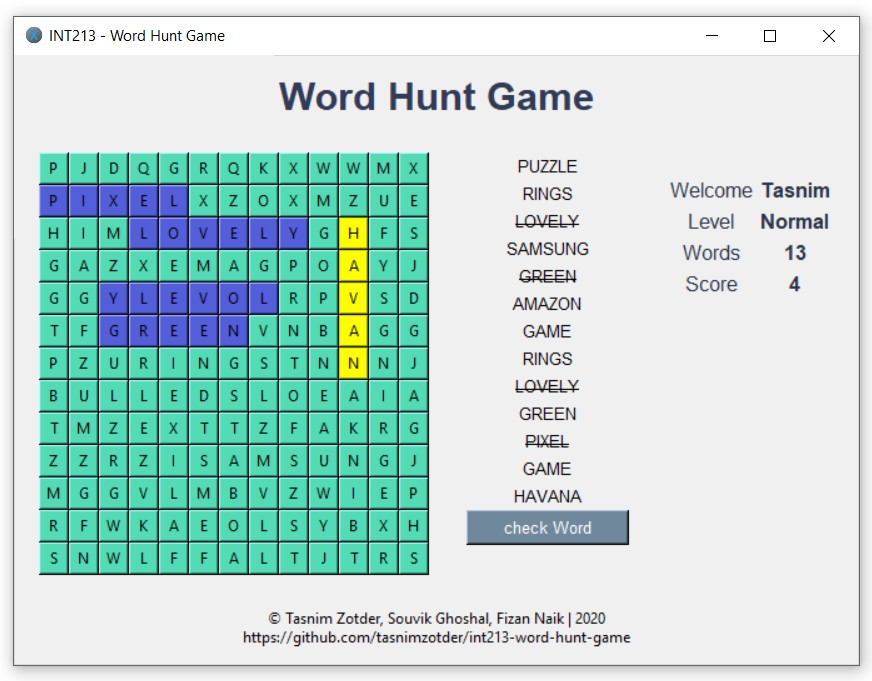
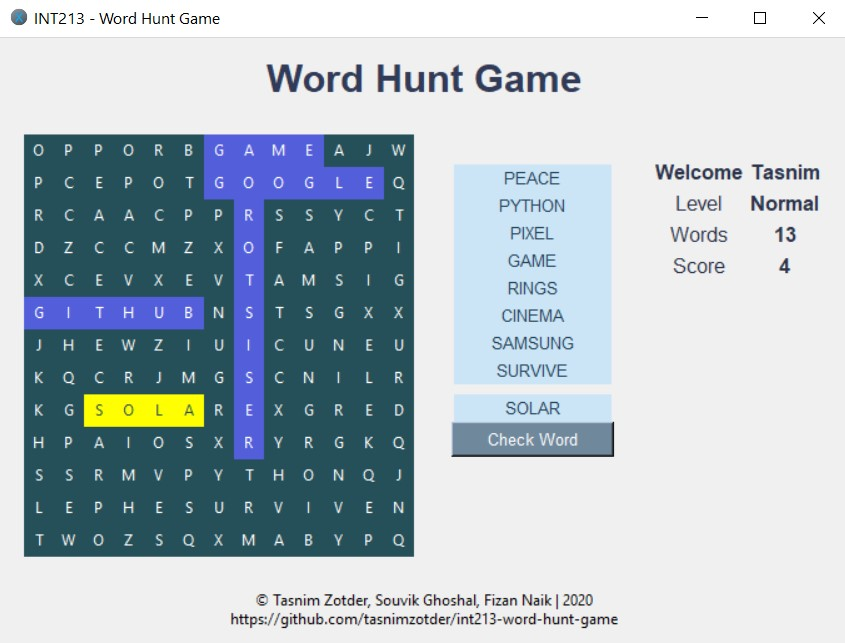
:pencil: add References & improve UI

diff --git a/int213-word-hunt-game/main.py b/int213-word-hunt-game/main.py
@@ -2,8 +2,20 @@
 INT213 - Word Hunt Game
 Let's hunt the lost words 🔍
 
+Author: Tasnim Zotder <hello@tasnim.dev>
 Repository: https://github.com/tasnimzotder/int213-word-hunt-game/
 Readme: https://github.com/tasnimzotder/int213-word-hunt-game/blob/master/README.md
+License: MIT
+"""
+
+# Reference(s)
+"""
+The word search logic is referenced to - 
+
+Repository: https://github.com/SpartanApple/PythonWordSearch
+Author: Mitchell Gale (SpartanApple)
+Year: 2020
+Month: October
 """
 
 import string
@@ -18,8 +30,8 @@ root = tk.Tk()
 root.title("INT213 - Word Hunt Game")
 root.iconbitmap(os.path.join(os.getcwd(), 'icons', 'x-48.ico'))
 
-pressedWord = ''
-prev = [0, 0]
+wordPressed = ''
+previous = [0, 0]
 route = [0, 0]
 
 # ***************> Game Starts <******************
@@ -80,7 +92,8 @@ def startGame():
     labelWelcome = tk.Label(master=frame3,
                             text="Welcome",
                             fg='#2c334a',
-                            font=('Helvetica', 12)).grid(row=0, column=0)
+                            font=('Helvetica', 12, 'bold')).grid(row=0,
+                                                                 column=0)
 
     labelWName = tk.Label(master=frame3,
                           text=configFile['player']['name'],
@@ -132,10 +145,10 @@ def startGame():
     directionArr = [[1, 0], [1, 1], [0, 1], [-1, 1], [-1, 0], [-1, -1],
                     [0, -1], [1, -1]]
 
-    class square:
+    class Square:
         status = False
-        char = ''
         filled = False
+        char = ''
 
     def fill(x, y, word, direction):
         for i in range(len(word)):
@@ -170,70 +183,78 @@ def startGame():
                             height=1,
                             width=15,
                             font=('None %d ' % (10)),
+                            fg='#254359',
+                            bg='#cbe5f7',
                             anchor='c')
         check[j].grid()
 
         fill(x, y, word, direction)
         return dictionary
 
-    def colourWord(pressedWord, valid):
+    def colourWord(wordPressed, valid):
         route[0] *= -1
         route[1] *= -1
-        for i in range(len(pressedWord)):
-            if valid == True or arr[prev[0] +
-                                    i * route[0]][prev[1] +
+        for i in range(len(wordPressed)):
+            if valid == True or arr[previous[0] +
+                                    i * route[0]][previous[1] +
                                                   i * route[1]].status == True:
-                button[prev[0] + i * route[0]][prev[1] + i * route[1]].config(
-                    bg='#535edb')
-                arr[prev[0] + i * route[0]][prev[1] +
-                                            i * route[1]].status = True
-            elif (arr[prev[0] + i * route[0]][prev[1] +
-                                              i * route[1]].status == False):
-                button[prev[0] + i * route[0]][prev[1] + i * route[1]].config(
-                    bg='#53dbb5')
+                button[previous[0] + i * route[0]][previous[1] +
+                                                   i * route[1]].config(
+                                                       bg='#535edb',
+                                                       fg='white')
+                arr[previous[0] + i * route[0]][previous[1] +
+                                                i * route[1]].status = True
+            elif (arr[previous[0] +
+                      i * route[0]][previous[1] +
+                                    i * route[1]].status == False):
+                button[previous[0] + i * route[0]][previous[1] +
+                                                   i * route[1]].config(
+                                                       bg='#255059',
+                                                       fg='white')
 
     def checkWord():
-        global pressedWord
+        global wordPressed
 
-        if pressedWord in dictionary:
-            check[int(dictionary.index(pressedWord))].configure(
-                font=('None %d overstrike' % (10)))
-            check[int(dictionary.index(pressedWord))].grid()
-            dictionary[dictionary.index(pressedWord)] = ''
+        if wordPressed in dictionary:
+            check[int(dictionary.index(wordPressed))].configure(
+                font=('Helvetica', 1), fg='#f0f0f0', bg='#f0f0f0')
+            check[int(dictionary.index(wordPressed))].grid()
+            dictionary[dictionary.index(wordPressed)] = ''
+
             updateScore()
-            colourWord(pressedWord, True)
+            colourWord(wordPressed, True)
         else:
-            colourWord(pressedWord, False)
-        pressedWord = ''
-        prev = [0, 0]
+            colourWord(wordPressed, False)
+        wordPressed = ''
+        previous = [0, 0]
 
     def buttonPress(x, y):
-        global pressedWord, prev, route
+        global wordPressed, previous, route
         newPressed = [x, y]
 
-        if (len(pressedWord) == 0):
-            prev = newPressed
-            # print(prev)
-            pressedWord = arr[x][y].char
-            button[x][y].configure(bg='yellow')
+        if (len(wordPressed) == 0):
+            previous = newPressed
+            # print(previous)
+            wordPressed = arr[x][y].char
+            button[x][y].configure(bg='yellow', fg='#255059')
 
-        elif (len(pressedWord) == 1 and (x - prev[0])**2 <= 1
-              and (y - prev[1])**2 <= 1 and newPressed != prev):
-            pressedWord += arr[x][y].char
-            button[x][y].configure(bg='yellow')
+        elif (len(wordPressed) == 1 and (x - previous[0])**2 <= 1
+              and (y - previous[1])**2 <= 1 and newPressed != previous):
+            wordPressed += arr[x][y].char
+            button[x][y].configure(bg='yellow', fg='#255059')
 
-            route = [x - prev[0], y - prev[1]]
-            prev = [x, y]
+            route = [x - previous[0], y - previous[1]]
+            previous = [x, y]
 
-        elif (len(pressedWord) > 1 and x - prev[0] == route[0]
-              and y - prev[1] == route[1]):
-            pressedWord += arr[x][y].char
-            button[x][y].configure(bg='yellow')
-            prev = [x, y]
+        elif (len(wordPressed) > 1 and x - previous[0] == route[0]
+              and y - previous[1] == route[1]):
+            wordPressed += arr[x][y].char
+            button[x][y].configure(bg='yellow', fg='#255059')
+            previous = [x, y]
 
     for x in range(size):
         for y in range(size):
-            arr[x][y] = square()
+            arr[x][y] = Square()
 
     for i in range(numWords):
         wordPlace(i, dictionary)
@@ -247,22 +268,24 @@ def startGame():
             button[x][y] = tk.Button(
                 frame1,
                 text=arr[x][y].char,
-                bg='#53dbb5',
+                bg='#255059',
+                fg='white',
                 width=2,
                 height=1,
+                relief=tk.FLAT,
                 command=lambda x=x, y=y: buttonPress(x, y))
             button[x][y].grid(row=x, column=y)
 
-    checkW = tk.Button(frame2,
-                       text="check Word",
-                       height=1,
-                       width=15,
-                       anchor='c',
-                       bg="#70889c",
-                       font=('Helvetica', 10),
-                       fg='white',
-                       command=checkWord)
-    checkW.grid()
+    checkWordBtn = tk.Button(frame2,
+                             text="Check Word",
+                             height=1,
+                             width=15,
+                             anchor='c',
+                             bg="#70889c",
+                             font=('Helvetica', 10),
+                             fg='white',
+                             command=checkWord)
+    checkWordBtn.grid()
 
 
 def main():

diff --git a/README.md b/README.md
@@ -8,25 +8,25 @@
     <img alt="GitHub" src="https://img.shields.io/github/license/tasnimzotder/int213-word-hunt-game?style=flat-square">
 </p>
 
-# INT213 - Word Hunt Game
+# 🎮 INT213 - Word Hunt Game
 
 Let's hunt the lost words 🔍
 
-## Languages Used
+## 🔤 Languages Used
 
 <p align="center">
     <img alt="python" src="assets/python-96.png" height="48px"/>
     <img alt="python" src="assets/powershell-48.png" height="48px"/>
 </p>
 
-## Requirements
+## ⚓ Requirements
 
 | Name   | Version | Website                                      |
 | ------ | ------- | -------------------------------------------- |
 | Python | ^3.8    | https://www.python.org/                      |
 | Poetry | ^1.14   | https://python-poetry.org/docs/#installation |
 
-## Getting Started
+## 🎉 Getting Started
 
 1. Clone (Download) the project
 
@@ -48,7 +48,7 @@ b. Linux
 bash run.sh
 ```
 
-## Collaborators
+## 🧑🤝🧑 Collaborators
 
 <p align="center">
     <a href="https://github.com/tasnimzotder">
@@ -65,10 +65,19 @@ bash run.sh
     </a>
 <p>
 
-## Screenshots
+## 📷 Screenshots
 
 ![game setup](assets/game_setup.jpg)
 
-## License
+## 📃 References
 
-This project is under [MIT License](LICENSE)
+- **Poetry Docs**: [Poetry](https://python-poetry.org/)
+- **YAML Docs**: [Stack Abuse](https://stackabuse.com/reading-and-writing-yaml-to-a-file-in-python/)
+- **Tkinter GUI Docs**: [Real Python](https://realpython.com/python-gui-tkinter/)
+- **Word Search Logic**: [PythonWordSearch](https://github.com/SpartanApple/PythonWordSearch)
+
+## 📝 License
+
+## This project is licensed under [MIT License](LICENSE).
+
+## 💡 For more details view [Wiki](https://github.com/tasnimzotder/int213-word-hunt-game/wiki)
